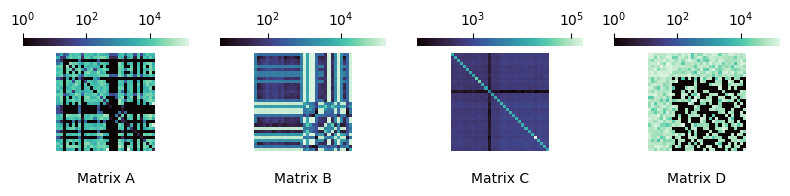
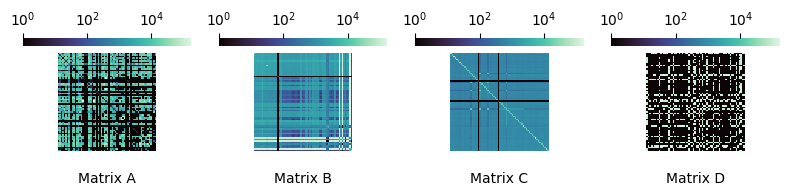
add closed-loop traffic

diff --git a/gen_app.py b/gen_app.py
@@ -5,7 +5,7 @@ import json
 def assign_clients_to_storage(matrix_size):
     """
     Given an n x n matrix, randomly assign 1/4 as clients and 3/4 as storage,
-    then randomly generate symmetric traffic intensity from clients to storage.
+    then randomly generate traffic intensity from clients to storage.
 
     Parameters:
         matrix_size (int): Size of the square matrix (n).
@@ -20,37 +20,28 @@ def assign_clients_to_storage(matrix_size):
     total_elements = matrix_size * matrix_size
 
     # Randomly select 1/4 indices as clients and 3/4 as storage
-    indices = np.arange(total_elements)
-    # np.random.shuffle(indices)
+    indices = np.arange(matrix_size)
+    np.random.shuffle(indices)
 
-    client_count = total_elements // 4
-    storage_count = total_elements - client_count
+    client_count = matrix_size // 4
 
-    client_indices = indices[:client_count]
-    storage_indices = indices[client_count:]
+    # Split indices into clients and storage
+    clients = indices[:client_count]
+    storage = indices[client_count:]
 
-    # Map the flat indices to 2D indices
-    clients = np.unravel_index(client_indices, (matrix_size, matrix_size))
-    storage = np.unravel_index(storage_indices, (matrix_size, matrix_size))
-
-    # Assign random symmetric traffic intensity between clients and storage
-    for client_idx in zip(*clients):
-        storage_idx = np.random.choice(len(storage[0]))
-        assigned_storage = (storage[0][storage_idx], storage[1][storage_idx])
-        traffic_intensity = np.random.randint(100, 1000)  # Random traffic intensity
-        matrix[client_idx] = traffic_intensity
-        matrix[assigned_storage] = traffic_intensity
-
-        # Ensure symmetry
-        matrix[assigned_storage[0], assigned_storage[1]] = traffic_intensity
-        matrix[client_idx[0], client_idx[1]] = traffic_intensity
+    # Assign random traffic intensity only from clients to storage
+    for i in range(len(clients) * len(storage)):
+        client_idx = np.random.choice(clients)
+        assigned_storage = np.random.choice(storage)
+        traffic_intensity = np.random.randint(500, 1000)  # Random traffic intensity
+        matrix[client_idx][assigned_storage] = traffic_intensity
     matrix += matrix.T
     return matrix
 
 
 # Load JSON file
 with open(
-    "/data1/lichenni/projects/per-flow-sim/parsimon-eval/workload/spatials/cluster_b_2_16.json",
+    "/data1/lichenni/projects/per-flow-sim/parsimon-eval/workload/spatials/cluster_b_4_16.json",
     "r",
 ) as f:
     data = json.load(f)
@@ -66,7 +57,7 @@ data["matrix"]["inner"] = new_matrix.tolist()
 
 # Save the updated JSON
 with open(
-    "/data1/lichenni/projects/per-flow-sim/parsimon-eval/workload/spatials/cluster_d_2_16.json",
+    "/data1/lichenni/projects/per-flow-sim/parsimon-eval/workload/spatials/cluster_d_4_16.json",
     "w",
 ) as f:
     json.dump(data, f, indent=2)

diff --git a/flowsim/main_m4_noflowsim.cpp b/flowsim/main_m4_noflowsim.cpp
@@ -51,7 +51,6 @@ torch::Tensor fat_tensor;
 torch::Tensor fct_tensor;
 torch::Tensor i_fct_tensor;
 torch::Tensor sldn_tensor;
-torch::Tensor sldn_flowsim_tensor;
 torch::Tensor params_tensor;
 
 torch::Tensor flowid_to_linkid_flat_tensor;
@@ -236,15 +235,12 @@ void update_times_m4() {
         auto h_vec_active = h_vec.index_select(0, flowid_active_indices);
 
         auto size_cur = size_tensor.index_select(0, flowid_active_indices).unsqueeze(1); // [n_active,1]
-        auto sldn_flowsim_cur = sldn_flowsim_tensor.index_select(0, flowid_active_indices).unsqueeze(1); // [n_active,1]
         auto nlinks_cur = flowid_to_nlinks_tensor.index_select(0, flowid_active_indices).unsqueeze(1); // [n_active,1]
         auto params_data_cur = params_tensor.repeat({n_flows_active, 1});
         //auto input_tensor = torch::cat({size_cur, sldn_flowsim_cur, nlinks_cur, params_data_cur, h_vec_active}, 1); // [n_active, 3 + h_vec_dim]
         auto input_tensor = torch::cat({nlinks_cur, params_data_cur, h_vec_active}, 1);
 
         // Perform inference
-        std::cout << size_cur.size(1) << " " << sldn_flowsim_cur.size(1) << " " << nlinks_cur.size(1) << " " << params_data_cur.size(1) <<  " " << h_vec_active.size(1) << "\n";
-        std::cout << input_tensor.size(0) << " " << input_tensor.size(1) << "\n";
         sldn_est = output_layer.forward({ input_tensor }).toTensor().view(-1);; // [n_active]
 
         sldn_est = torch::clamp(sldn_est, 1.0f, std::numeric_limits<float>::infinity());
@@ -474,8 +470,7 @@ int main(int argc, char *argv[]) {
     const std::string fct_i_path = scenario_path + "/fct_i_topology_flows.npy";
     const std::string flow_link_path = scenario_path + "/flow_to_links.txt";
     const std::string config_path = argv[2];
-    //const std::string config_path = "./new_config.yaml"; //argv[8];
-    const std::string param_path = "validate_m4/ns3/param_topology_flows.npy";
+    const std::string param_path = scenario_path + "/param_topology_flows.npy";
     const std::string write_path = argv[3];
 
     std::chrono::steady_clock::time_point time_start = std::chrono::steady_clock::now();

diff --git a/flowsim/main_m4.cpp b/flowsim/main_m4.cpp
@@ -503,11 +503,10 @@ int main(int argc, char *argv[]) {
     const std::string fct_path = scenario_path + "/fct_topology_flows.npy";
     const std::string fct_i_path = scenario_path + "/fct_i_topology_flows.npy";
     const std::string flow_link_path = scenario_path + "/flow_to_links.txt";
-    const std::string config_path = "./new_config.yaml"; //argv[8];
+    const std::string config_path = argv[2]; //"./new_config.yaml"; //argv[8];
     const std::string param_path = "validate_m4/ns3/param_topology_flows.npy";
     const std::string write_path = argv[3];
-    const bool use_m4 = std::stoi(argv[4]);
-    const uint32_t mode = std::stoi(argv[5]); // 0 - arrival times, 1 - independent, 2 - flowsim uses m4
+    const bool use_m4 = true;
 
     std::chrono::steady_clock::time_point time_start = std::chrono::steady_clock::now();
  

diff --git a/flowsim/compare.py b/flowsim/compare.py
@@ -45,6 +45,8 @@ print(len(m4))
 
 baseline = np.load("/data1/lichenni/projects/per-flow-sim/res/m4_noflowsim_7eval_test.npz")
 baseline = baseline["fct"][0, :, 0]
+new_new_m4 = np.load("test_m4_flowsim.npy")
+m4_state = np.load("m4_noflowsim.npy")
 
 ax.ecdf(new_m4 / ideal, label="new m4")
 ax.ecdf(ns3 / ideal, label="ns3")
@@ -52,6 +54,8 @@ ax.ecdf(ns3 / ideal, label="ns3")
 ax.ecdf(m4 / ideal, label="m4")
 ax.ecdf(test_m4_no / ideal, label="m4 no flowsim")
 ax.ecdf(baseline / ideal, label="canon", linestyle='dashed')
+ax.ecdf(new_new_m4 / ideal, label="new new m4", linestyle='dashed')
+ax.ecdf(m4_state / ideal, label="m4 validation", linestyle='dashed')
 #ax.ecdf(script_flowsim / ideal, label="script flowsim", linestyle='dashed')
 plt.xscale('log')
 #ax.ecdf(m4_with_flowsim / ideal, label="m4 with flowsim")
